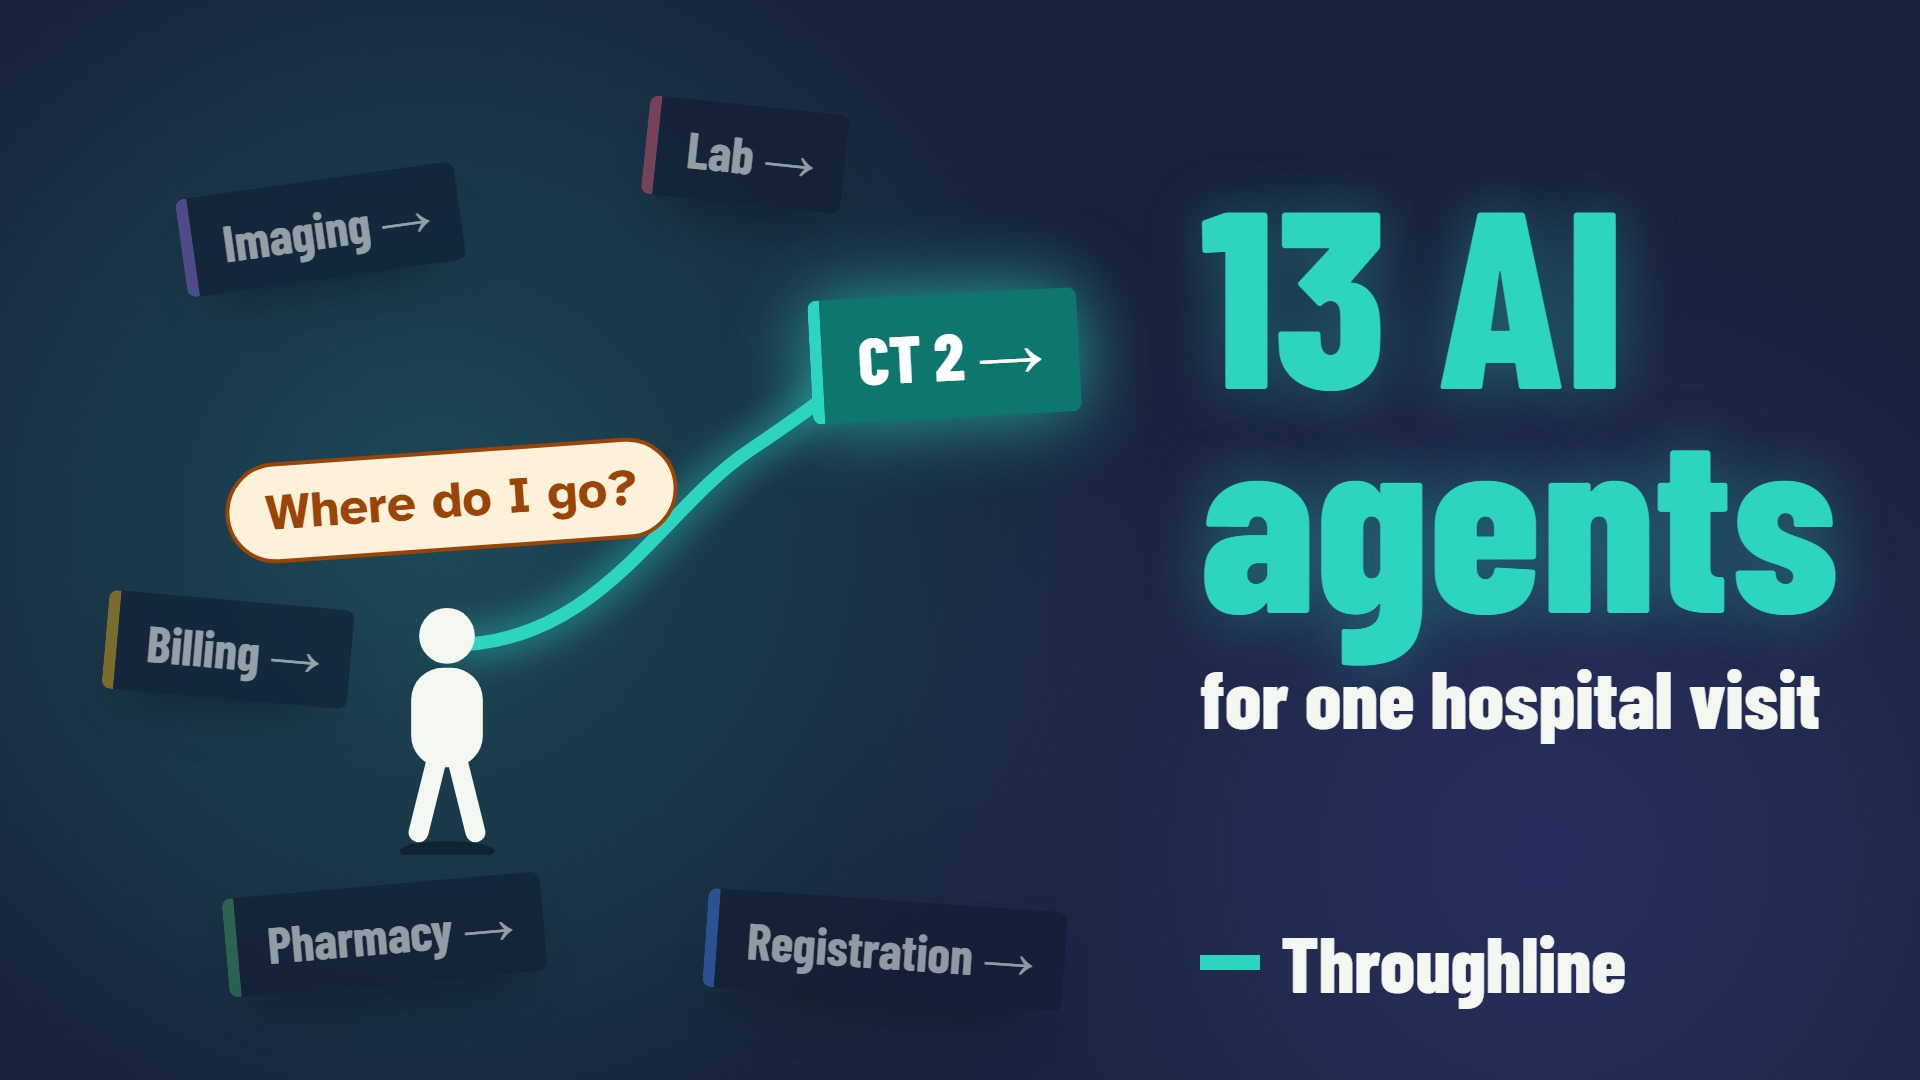
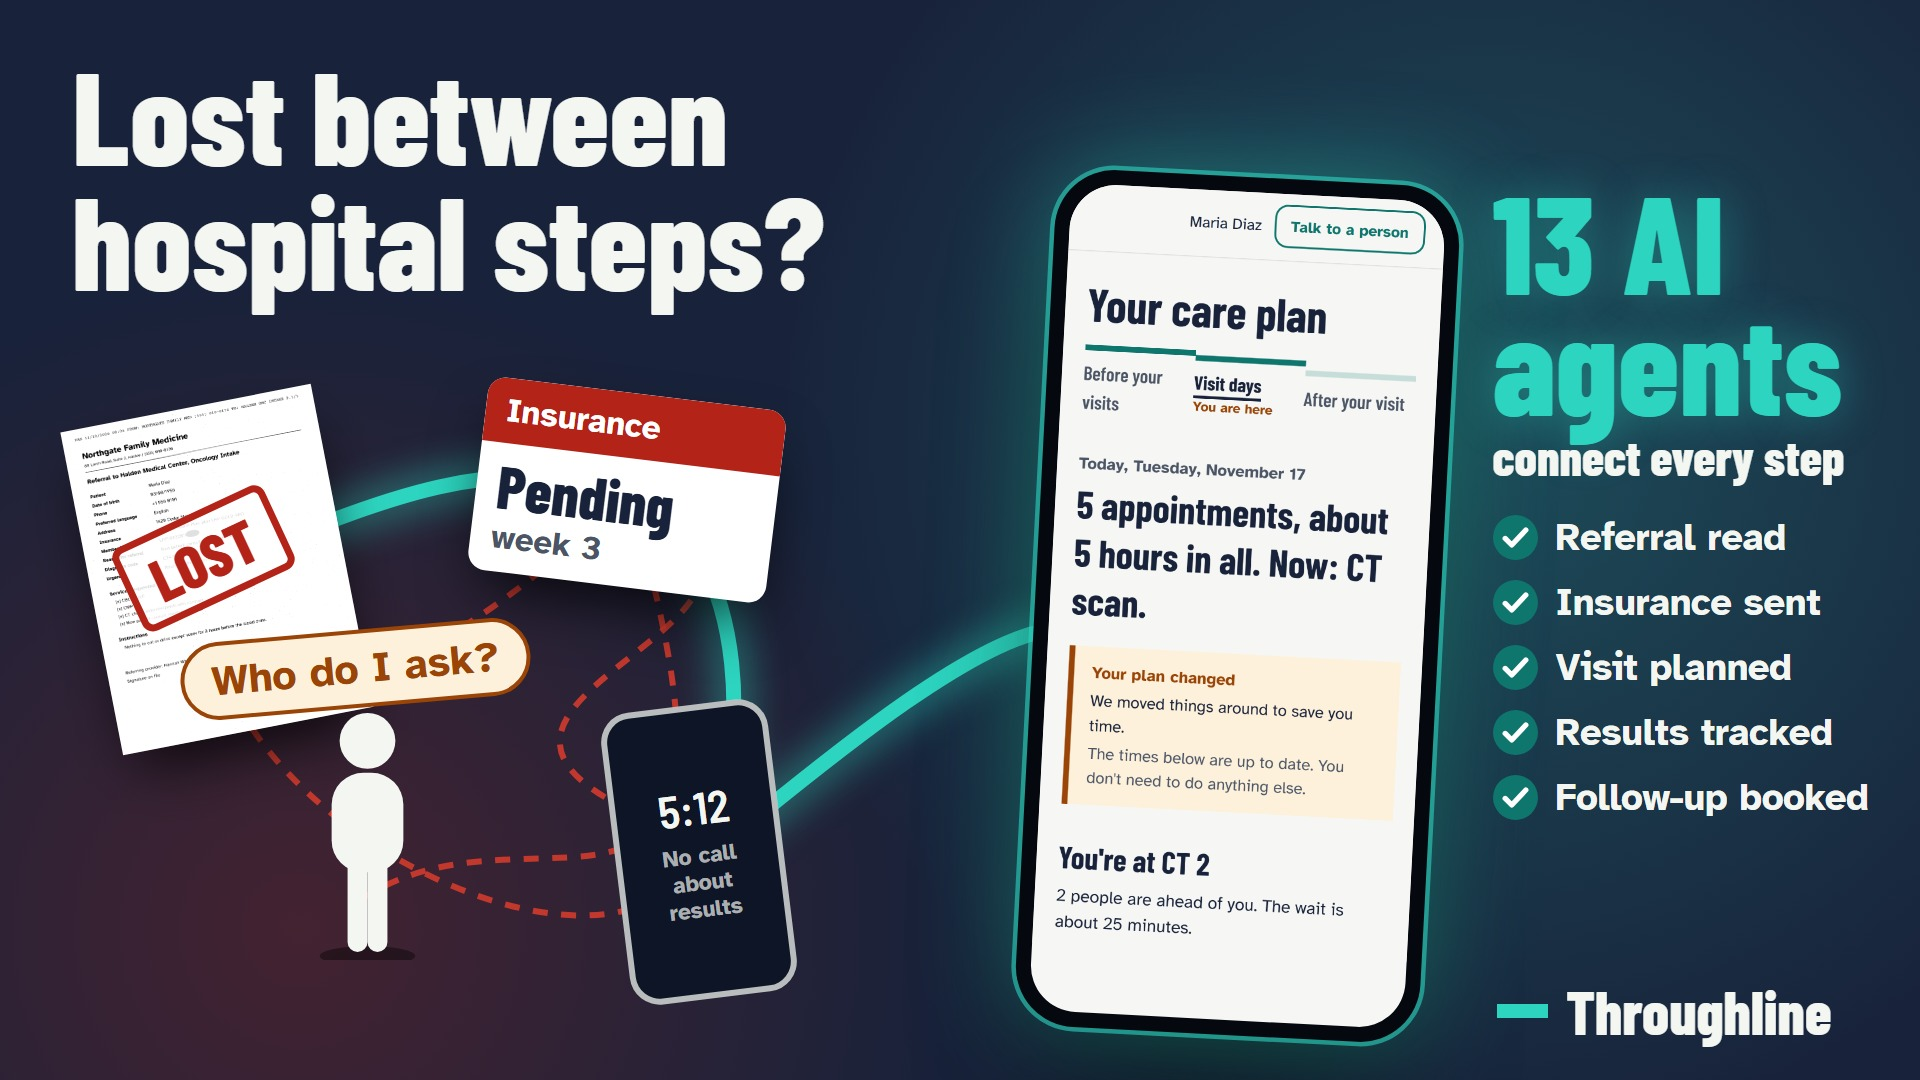
Thumbnail: the problem and the product in one frame

diff --git a/video/src/diagrams/Thumbnail.tsx b/video/src/diagrams/Thumbnail.tsx
@@ -1,0 +1,104 @@
+import { AbsoluteFill, Img, staticFile } from "remotion";
+import { C, F } from "../theme";
+
+/**
+ * The YouTube thumbnail. Left: what a hospital visit looks like today, scattered pieces joined by
+ * tangled red lines. Right: the same pieces on one teal thread, ending in the real patient app.
+ */
+
+const red = "rgba(220,60,45,.85)";
+
+function Check() {
+  return (
+    <svg width={30} height={30} viewBox="0 0 24 24">
+      <circle cx={12} cy={12} r={12} fill={C.agent} />
+      <path d="M6.5 12.5l3.5 3.5 7.5-8" fill="none" stroke="#fff" strokeWidth={2.8} strokeLinecap="round" strokeLinejoin="round" />
+    </svg>
+  );
+}
+
+export function Thumbnail() {
+  return (
+    <AbsoluteFill style={{ background: C.ink, overflow: "hidden" }}>
+      {/* today on the left, warm and uneasy; Throughline on the right, teal */}
+      <div style={{ position: "absolute", left: -300, top: 120, width: 1000, height: 1000, background: "radial-gradient(circle, rgba(180,35,24,.28), transparent 62%)" }} />
+      <div style={{ position: "absolute", right: -260, top: -260, width: 1100, height: 1100, background: "radial-gradient(circle, rgba(45,212,191,.24), transparent 62%)" }} />
+
+      {/* the hook */}
+      <div style={{ position: "absolute", left: 48, top: 34, fontFamily: F.display, fontWeight: 800, fontSize: 88, lineHeight: 0.95, color: C.boardText }}>
+        Lost between
+        <br />
+        hospital steps?
+      </div>
+
+      {/* the scattered pieces of a visit, tangled together */}
+      <svg width={1280} height={720} style={{ position: "absolute", inset: 0 }}>
+        {[
+          "M 150 360 C 300 260, 120 600, 420 330",
+          "M 420 330 C 600 420, 200 470, 470 560",
+          "M 150 360 C 80 520, 420 700, 470 560",
+          "M 240 600 C 360 520, 520 680, 420 330",
+        ].map((d) => (
+          <path key={d} d={d} stroke={red} strokeWidth={4} strokeDasharray="10 9" fill="none" />
+        ))}
+      </svg>
+      {/* one thread picks up every piece (it runs behind them) and carries it to the patient's phone */}
+      <svg width={1280} height={720} style={{ position: "absolute", inset: 0 }}>
+        <path d="M 140 380 C 260 330, 330 300, 418 330 S 500 520, 466 568 S 620 430, 700 420" stroke={C.glow} strokeWidth={10} strokeLinecap="round" fill="none" style={{ filter: `drop-shadow(0 0 14px ${C.glow})` }} />
+      </svg>
+      <div style={{ position: "absolute", left: 60, top: 270, transform: "rotate(-11deg)" }}>
+        <Img src={staticFile("assets/maria-referral-fax.png")} style={{ width: 170, filter: "grayscale(1) contrast(1.1)", boxShadow: "0 20px 40px -10px rgba(0,0,0,.8)" }} />
+        <div style={{ position: "absolute", left: 22, top: 70, transform: "rotate(-14deg)", border: `5px solid ${C.urgent}`, color: C.urgent, background: "rgba(255,255,255,.85)", borderRadius: 8, padding: "2px 14px", fontFamily: F.display, fontWeight: 800, fontSize: 40 }}>LOST</div>
+      </div>
+      <div style={{ position: "absolute", left: 318, top: 262, width: 200, borderRadius: 12, overflow: "hidden", background: C.panel, transform: "rotate(7deg)", boxShadow: "0 20px 40px -10px rgba(0,0,0,.8)" }}>
+        <div style={{ background: C.urgent, color: "#fff", fontFamily: F.text, fontWeight: 700, fontSize: 22, padding: "8px 14px" }}>Insurance</div>
+        <div style={{ padding: "8px 14px 12px", fontFamily: F.display, fontWeight: 800, fontSize: 40, color: C.ink, lineHeight: 1 }}>
+          Pending
+          <div style={{ fontFamily: F.text, fontWeight: 700, fontSize: 22, color: C.inkSoft, marginTop: 4 }}>week 3</div>
+        </div>
+      </div>
+      <div style={{ position: "absolute", left: 410, top: 470, width: 112, height: 196, borderRadius: 20, border: "4px solid rgba(244,246,242,.75)", background: "#0e1526", transform: "rotate(-7deg)", display: "flex", flexDirection: "column", alignItems: "center", justifyContent: "center", gap: 6, padding: 8 }}>
+        <div style={{ fontFamily: F.figure, fontWeight: 600, fontSize: 30, color: C.boardText }}>5:12</div>
+        <div style={{ fontFamily: F.text, fontWeight: 700, fontSize: 15, color: "rgba(244,246,242,.7)", textAlign: "center", lineHeight: 1.2 }}>No call about results</div>
+      </div>
+      {/* the person caught in the middle */}
+      <svg width={110} height={170} viewBox="0 0 40 64" style={{ position: "absolute", left: 190, top: 470 }}>
+        <ellipse cx={20} cy={63} rx={12} ry={2.5} fill="#000" opacity={0.4} />
+        <rect x={15} y={38} width={5} height={24} rx={2.5} fill={C.boardText} />
+        <rect x={20} y={38} width={5} height={24} rx={2.5} fill={C.boardText} />
+        <rect x={11} y={17} width={18} height={25} rx={8} fill={C.boardText} />
+        <circle cx={20} cy={9} r={7} fill={C.boardText} />
+      </svg>
+      <div style={{ position: "absolute", left: 120, top: 420, transform: "rotate(-5deg)", background: C.heldBg, color: C.held, border: `3px solid ${C.held}`, borderRadius: 999, padding: "6px 18px", fontFamily: F.text, fontWeight: 700, fontSize: 28 }}>Who do I ask?</div>
+
+      {/* the real patient app */}
+      <div style={{ position: "absolute", left: 690, top: 118, width: 270, height: 572, borderRadius: 40, background: "#05080f", padding: 10, boxShadow: `0 0 0 3px rgba(45,212,191,.6), 0 0 70px rgba(45,212,191,.45), 0 40px 80px -20px rgba(0,0,0,.9)`, transform: "rotate(3deg)" }}>
+        <div style={{ width: "100%", height: "100%", borderRadius: 31, overflow: "hidden", background: C.paper, position: "relative" }}>
+          <Img src={staticFile("clips/phone-plan.png")} style={{ position: "absolute", left: 0, top: -34, width: 250 }} />
+        </div>
+      </div>
+
+      {/* what the agents did */}
+      <div style={{ position: "absolute", left: 995, top: 120, width: 270 }}>
+        <div style={{ fontFamily: F.display, fontWeight: 800, fontSize: 92, lineHeight: 0.88, color: C.glow, textShadow: "0 0 30px rgba(45,212,191,.4)" }}>
+          13 AI
+          <br />
+          agents
+        </div>
+        <div style={{ marginTop: 6, fontFamily: F.display, fontWeight: 800, fontSize: 33, lineHeight: 1, color: C.boardText, whiteSpace: "nowrap" }}>connect every step</div>
+        <div style={{ marginTop: 22, display: "flex", flexDirection: "column", gap: 12 }}>
+          {["Referral read", "Insurance sent", "Visit planned", "Results tracked", "Follow-up booked"].map((t) => (
+            <div key={t} style={{ display: "flex", alignItems: "center", gap: 12, fontFamily: F.text, fontWeight: 700, fontSize: 25, color: C.boardText, whiteSpace: "nowrap" }}>
+              <Check />
+              {t}
+            </div>
+          ))}
+        </div>
+      </div>
+      <div style={{ position: "absolute", left: 998, top: 650, display: "flex", alignItems: "center", gap: 12 }}>
+        <span style={{ width: 34, height: 9, background: C.glow }} />
+        <span style={{ fontFamily: F.display, fontWeight: 800, fontSize: 40, color: C.boardText }}>Throughline</span>
+      </div>
+    </AbsoluteFill>
+  );
+}

diff --git a/video/src/diagrams/Diagrams.tsx b/video/src/diagrams/Diagrams.tsx
@@ -421,53 +421,3 @@ export function Hero() {
   );
 }
 
-// ---- 7. YouTube thumbnail -------------------------------------------------------------------------
-
-const THUMB_SIGNS = [
-  { x: 120, y: 120, rot: -8, label: "Imaging", accent: C.zone.violet },
-  { x: 430, y: 70, rot: 6, label: "Lab", accent: C.zone.rose },
-  { x: 70, y: 400, rot: 5, label: "Billing", accent: C.zone.gold },
-  { x: 150, y: 590, rot: -5, label: "Pharmacy", accent: C.zone.green },
-  { x: 470, y: 600, rot: 4, label: "Registration", accent: C.zone.blue },
-];
-
-export function Thumbnail() {
-  return (
-    <AbsoluteFill style={{ background: C.ink, overflow: "hidden" }}>
-      <div style={{ position: "absolute", left: -260, top: -200, width: 1100, height: 1100, background: "radial-gradient(circle, rgba(45,212,191,.22), transparent 62%)" }} />
-      <div style={{ position: "absolute", right: -300, bottom: -400, width: 1100, height: 1100, background: "radial-gradient(circle, rgba(99,102,241,.2), transparent 62%)" }} />
-      {/* the maze of signs, dimmed */}
-      {THUMB_SIGNS.map((s) => (
-        <div key={s.label} style={{ position: "absolute", left: s.x, top: s.y, transform: `rotate(${s.rot}deg)`, opacity: 0.55, background: "#101a30", borderLeft: `8px solid ${s.accent}`, borderRadius: 6, padding: "12px 20px", fontFamily: F.display, fontWeight: 700, fontSize: 34, color: C.boardText, boxShadow: "0 20px 40px -20px rgba(0,0,0,.9)" }}>
-          {s.label} →
-        </div>
-      ))}
-      {/* one clear route to the right door */}
-      <svg width={1280} height={720} style={{ position: "absolute", inset: 0 }}>
-        <path d="M 300 430 C 400 430, 440 340, 500 300 S 560 255, 570 250" stroke={C.glow} strokeWidth={9} strokeLinecap="round" fill="none" style={{ filter: `drop-shadow(0 0 12px ${C.glow})` }} />
-        <circle cx={300} cy={430} r={10} fill={C.glow} />
-      </svg>
-      <div style={{ position: "absolute", left: 540, top: 196, transform: "rotate(-3deg)", background: C.agent, borderLeft: `8px solid ${C.glow}`, borderRadius: 6, padding: "14px 24px", fontFamily: F.display, fontWeight: 800, fontSize: 44, color: "#fff", boxShadow: "0 0 50px rgba(45,212,191,.7)" }}>CT 2 →</div>
-      <div style={{ position: "absolute", left: 238, top: 400 }}>
-        <svg width={120} height={170} viewBox="0 0 40 64">
-          <ellipse cx={20} cy={63} rx={12} ry={2.5} fill="#000" opacity={0.35} />
-          <rect x={15} y={38} width={5} height={24} rx={2.5} fill={C.boardText} transform="rotate(14 20 40)" />
-          <rect x={20} y={38} width={5} height={24} rx={2.5} fill={C.boardText} transform="rotate(-14 20 40)" />
-          <rect x={11} y={17} width={18} height={25} rx={8} fill={C.boardText} />
-          <circle cx={20} cy={9} r={7} fill={C.boardText} />
-        </svg>
-      </div>
-      <div style={{ position: "absolute", left: 150, top: 300, transform: "rotate(-4deg)", background: C.heldBg, color: C.held, border: `3px solid ${C.held}`, borderRadius: 999, padding: "10px 24px", fontFamily: F.text, fontWeight: 700, fontSize: 34 }}>Where do I go?</div>
-      {/* the headline */}
-      <div style={{ position: "absolute", left: 800, top: 120, width: 460 }}>
-        <div style={{ fontFamily: F.display, fontWeight: 800, fontSize: 168, lineHeight: 0.86, color: C.glow, textShadow: "0 0 40px rgba(45,212,191,.35)" }}>13 AI</div>
-        <div style={{ fontFamily: F.display, fontWeight: 800, fontSize: 168, lineHeight: 0.92, color: C.glow, textShadow: "0 0 40px rgba(45,212,191,.35)" }}>agents</div>
-        <div style={{ marginTop: 18, fontFamily: F.display, fontWeight: 800, fontSize: 54, lineHeight: 1, color: C.boardText, whiteSpace: "nowrap" }}>for one hospital visit</div>
-      </div>
-      <div style={{ position: "absolute", left: 800, top: 610, display: "flex", alignItems: "center", gap: 14 }}>
-        <span style={{ width: 40, height: 10, background: C.glow }} />
-        <span style={{ fontFamily: F.display, fontWeight: 800, fontSize: 52, color: C.boardText }}>Throughline</span>
-      </div>
-    </AbsoluteFill>
-  );
-}

diff --git a/video/src/Root.tsx b/video/src/Root.tsx
@@ -5,7 +5,8 @@ import { FPS, H, W } from "./theme";
 import { Film3, TOTAL3 } from "./v3/Film3";
 import { Film4, TOTAL4 } from "./v4/Film4";
 import { Film5, TOTAL5 } from "./v5/Film5";
-import { Architecture, BrokenChain, Contract, Hero, Journey, StatsUS, StatsWorld, Thumbnail } from "./diagrams/Diagrams";
+import { Architecture, BrokenChain, Contract, Hero, Journey, StatsUS, StatsWorld } from "./diagrams/Diagrams";
+import { Thumbnail } from "./diagrams/Thumbnail";
 
 export const Root = () => (
   <>
